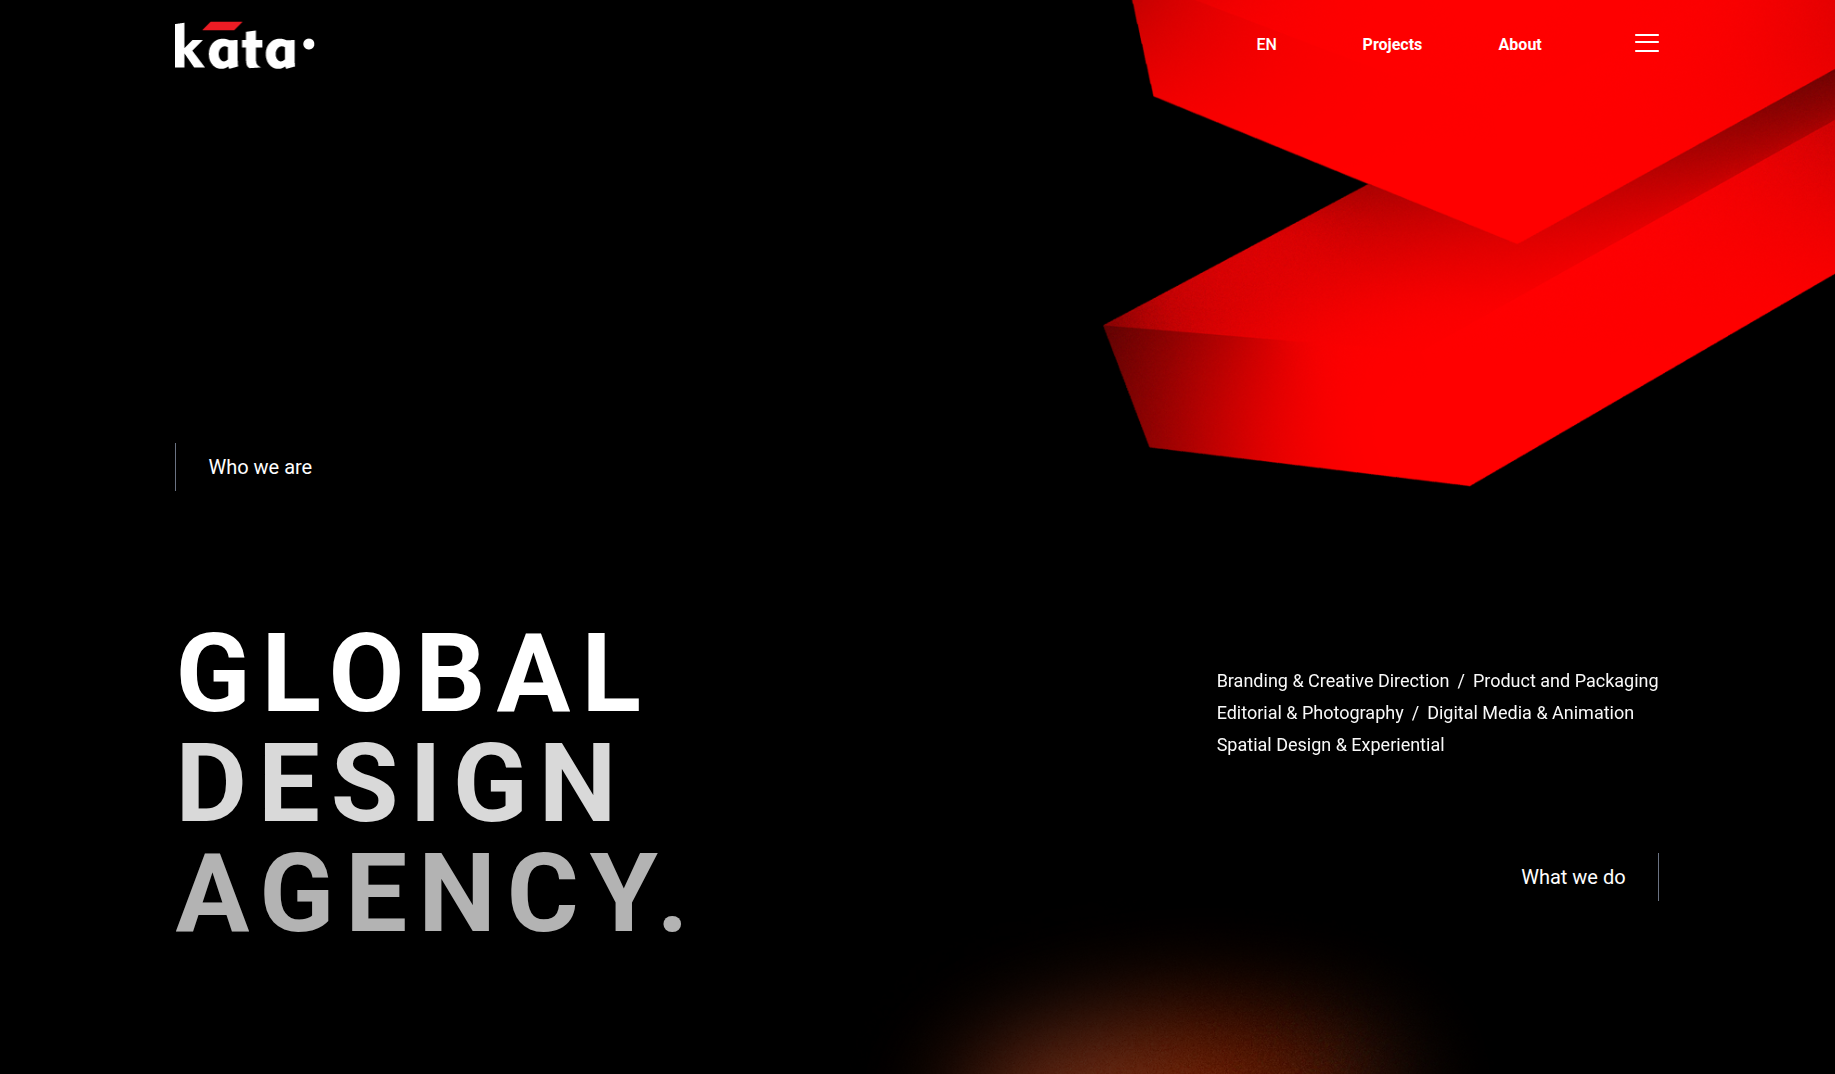
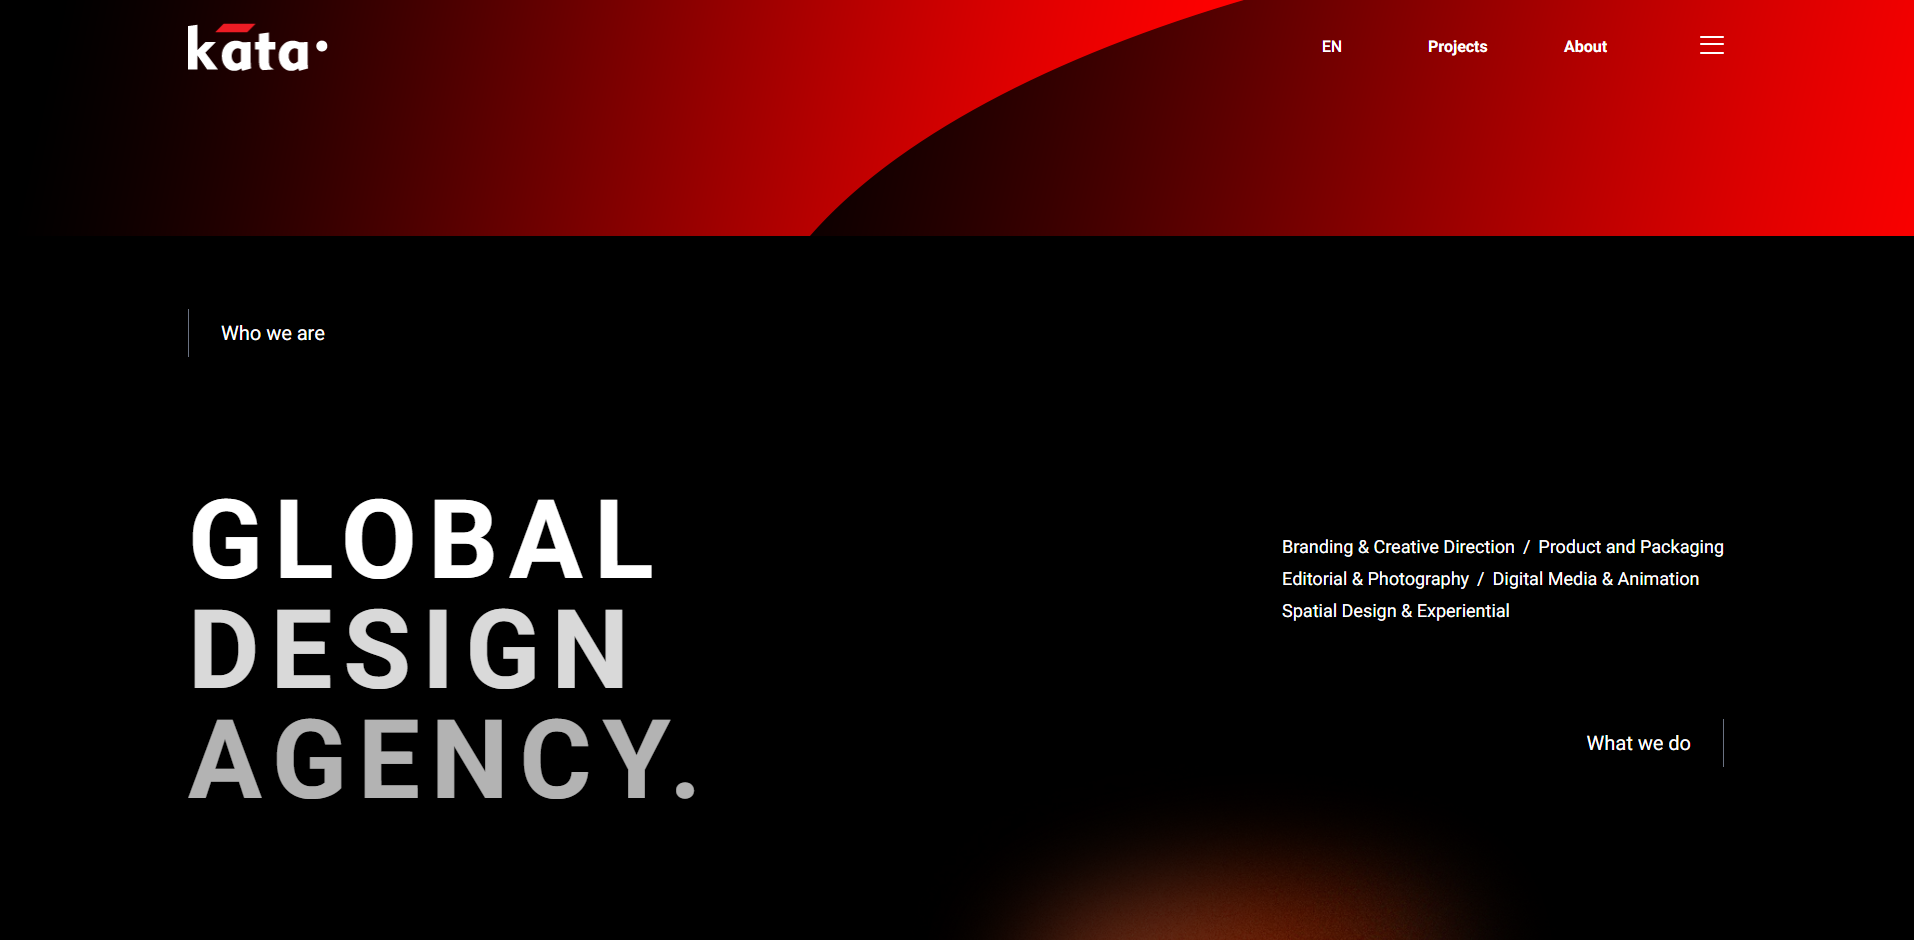
home-page changed

diff --git a/src/components/Logo.jsx b/src/components/Logo.jsx
@@ -18,7 +18,7 @@ const Logo = ({ variant = "light", width = 140, height = 47 }) => {
 
   return (
     <Link href="/" className="flex-shrink-0 z-50">
-      <Image src={logoSrc} width={width} height={height} alt="Kata logo" priority unoptimized/>
+      <Image src={logoSrc} width={width} height={height} alt="Kata logo" priority />
     </Link>
   );
 };
